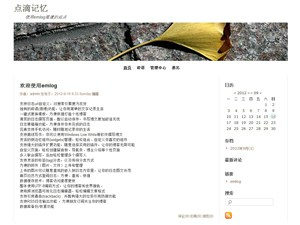
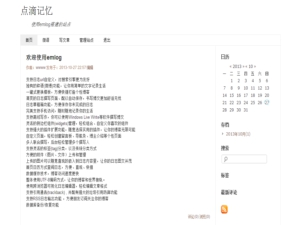
改进页面文案细节

diff --git a/src/admin/views/css/css-main.css b/src/admin/views/css/css-main.css
@@ -30,7 +30,6 @@ body {
 	text-align:center;
 }
 #menu_wt a {background:url(../images/addblog.gif) no-repeat 18px 1px;}
-#menu_tw a {background:url(../images/t.gif) no-repeat 20px 1px;}
 #menu_plug a {background:url(../images/plugin.gif) no-repeat 20px 1px;}
 #menu_store a {background:url(../images/store.gif) no-repeat 10px 2px;}
 #menu_ext { cursor:pointer;}
@@ -822,7 +821,7 @@ textarea {
 	border-bottom:1px solid #F7F7F7
 }
 .custom_top_button {
-	margin-top:10px;
+	margin-top:60px;
 }
 .custom_top_button a {
 	background:url(../images/custom_top.gif) no-repeat;

diff --git a/src/admin/views/comment.php b/src/admin/views/comment.php
@@ -2,7 +2,7 @@
 <div class=containertitle><b>评论管理</b>
 <?php if(isset($_GET['active_del'])):?><span class="actived">删除评论成功</span><?php endif;?>
 <?php if(isset($_GET['active_show'])):?><span class="actived">审核评论成功</span><?php endif;?>
-<?php if(isset($_GET['active_hide'])):?><span class="actived">驳回评论成功</span><?php endif;?>
+<?php if(isset($_GET['active_hide'])):?><span class="actived">隐藏评论成功</span><?php endif;?>
 <?php if(isset($_GET['active_edit'])):?><span class="actived">修改评论成功</span><?php endif;?>
 <?php if(isset($_GET['active_rep'])):?><span class="actived">回复评论成功</span><?php endif;?>
 <?php if(isset($_GET['error_a'])):?><span class="error">请选择要执行操作的评论</span><?php endif;?>
@@ -59,7 +59,7 @@ if ($hidecmnum > 0) echo '('.$hidecmnum.')';
 		<?php if($value['hide'] == 'y'):?>
 		<a href="comment.php?action=show&amp;id=<?php echo $value['cid']; ?>">审核</a>
 		<?php else: ?>
-		<a href="comment.php?action=hide&amp;id=<?php echo $value['cid']; ?>">驳回</a>
+		<a href="comment.php?action=hide&amp;id=<?php echo $value['cid']; ?>">隐藏</a>
 		<?php endif;?>
 		<a href="comment.php?action=reply_comment&amp;cid=<?php echo $value['cid']; ?>">回复</a>
         <a href="comment.php?action=edit_comment&amp;cid=<?php echo $value['cid']; ?>">编辑</a>
@@ -76,7 +76,7 @@ if ($hidecmnum > 0) echo '('.$hidecmnum.')';
 	<div class="list_footer">
 	<a href="javascript:void(0);" id="select_all">全选</a> 选中项：
     <a href="javascript:commentact('del');" class="care">删除</a>
-	<a href="javascript:commentact('hide');">驳回</a>
+	<a href="javascript:commentact('hide');">隐藏</a>
 	<a href="javascript:commentact('pub');">审核</a>
 	<input name="operate" id="operate" value="" type="hidden" />
 	</div>

diff --git a/src/admin/twitter.php b/src/admin/twitter.php
@@ -65,7 +65,7 @@ if ($action == 'getreply') {
 	foreach ($replys as $val) {
 		 if ($val['hide'] == 'n') {
 			$style = "background-color:#FFF";
-			$act = "<span><a href=\"javascript: hidereply({$val['id']},{$tid});\">驳回</a></span> ";
+			$act = "<span><a href=\"javascript: hidereply({$val['id']},{$tid});\">隐藏</a></span> ";
 		 } else {
 			$style = "background-color:#FEE0E4";
 			$act = "<span><a href=\"javascript: pubreply({$val['id']},{$tid});\">审核</a></span> ";
@@ -111,7 +111,7 @@ if ($action == 'reply') {
 	$response = "
 		 <li id=\"reply_{$rid}\" style=\"background-color:#FFEEAA\">
 		 <span class=\"name\">{$name}</span> {$r}<span class=\"time\">{$date}</span>
-		 <span><a href=\"javascript: hidereply({$rid},{$tid});\">驳回</a></span> 
+		 <span><a href=\"javascript: hidereply({$rid},{$tid});\">隐藏</a></span> 
 		 <a href=\"javascript: delreply({$rid},{$tid});\">删除</a> 
 		 <em><a href=\"javascript:reply({$tid}, '@{$name}：');\">回复</a></em>
 		 </li>";

diff --git a/src/admin/views/template.php b/src/admin/views/template.php
@@ -9,13 +9,12 @@
 <?php else:?>
 <table cellspacing="20" cellpadding="0" width="80%" border="0">
     <tr>
-      <td width="27%">
+      <td width="42%">
 	  <img src="<?php echo TPLS_URL.$nonce_templet; ?>/preview.jpg" width="240" height="180"  border="1" />	  </td>
-	  <td width="73%">
+	  <td width="58%">
 	  <?php echo $tplName; ?> <em><?php echo $tplVer; ?></em><br>
 	  <?php echo $tplAuthor; ?><br>
-	  <?php echo $tplForEm; ?><br>
-	  <p><?php echo $tplDes; ?></p>
+	  <?php echo $tplDes; ?>
 	  <?php if ('default' == $nonce_templet): ?>
 	  <div class="custom_top_button"><a href="./template.php?action=custom-top">自定义顶部图片</a></div>
 	  <?php endif; ?>

diff --git a/src/admin/views/twitter.php b/src/admin/views/twitter.php
@@ -209,7 +209,7 @@ function hidereply(rid,tid){
 function pubreply(rid,tid){
     $.get("twitter.php?action=pubreply&rid="+rid+"&tid="+tid+"&stamp="+timestamp(), function(){
         $("#reply_"+rid).css('background-color','#FFF');
-        $("#reply_"+rid+" span a").text('驳回');
+        $("#reply_"+rid+" span a").text('隐藏');
         $("#reply_"+rid+" span a").attr("href","javascript: hidereply("+rid+","+tid+")");
         var rnum = Number($("#"+tid+" small").text());
         if(rnum == 1){$("#"+tid+" small").text('');}else{$("#"+tid+" small").text(rnum-1);}

diff --git a/src/m/view/comment.php b/src/m/view/comment.php
@@ -14,7 +14,7 @@ foreach($comment as $value):
 <?php endif;?>
 <div class="cominfo">
 <?php if(ISLOGIN === true && $value['hide'] == 'n'): ?>
-<a href="./?action=hidecom&id=<?php echo $value['cid'];?>">驳回</a>
+<a href="./?action=hidecom&id=<?php echo $value['cid'];?>">隐藏</a>
 <?php elseif(ISLOGIN === true && $value['hide'] == 'y'):?>
 <a href="./?action=showcom&id=<?php echo $value['cid'];?>">审核</a>
 <?php endif;?>

diff --git a/src/admin/views/plugin.php b/src/admin/views/plugin.php
@@ -25,12 +25,12 @@
 	foreach($plugins as $key=>$val):
 		$plug_state = 'inactive';
 		$plug_action = 'active';
-		$plug_state_des = '未激活';
+		$plug_state_des = '点击激活插件';
 		if (in_array($key, $active_plugins))
 		{
 			$plug_state = 'active';
 			$plug_action = 'inactive';
-			$plug_state_des = '已激活';
+			$plug_state_des = '点击禁用插件';
 		}
 		$i++;
 	?>	

diff --git a/src/content/templates/default/header.php b/src/content/templates/default/header.php
@@ -1,12 +1,11 @@
 <?php
 /*
 Template Name:默认模板
-Description:默认模板，简洁优雅 ……
+Description:默认模板，简洁优雅
 Version:1.2
 Author:emlog
 Author Url:http://www.emlog.net
 Sidebar Amount:1
-ForEmlog:5.1.2
 */
 if(!defined('EMLOG_ROOT')) {exit('error!');}
 require_once View::getView('module');
